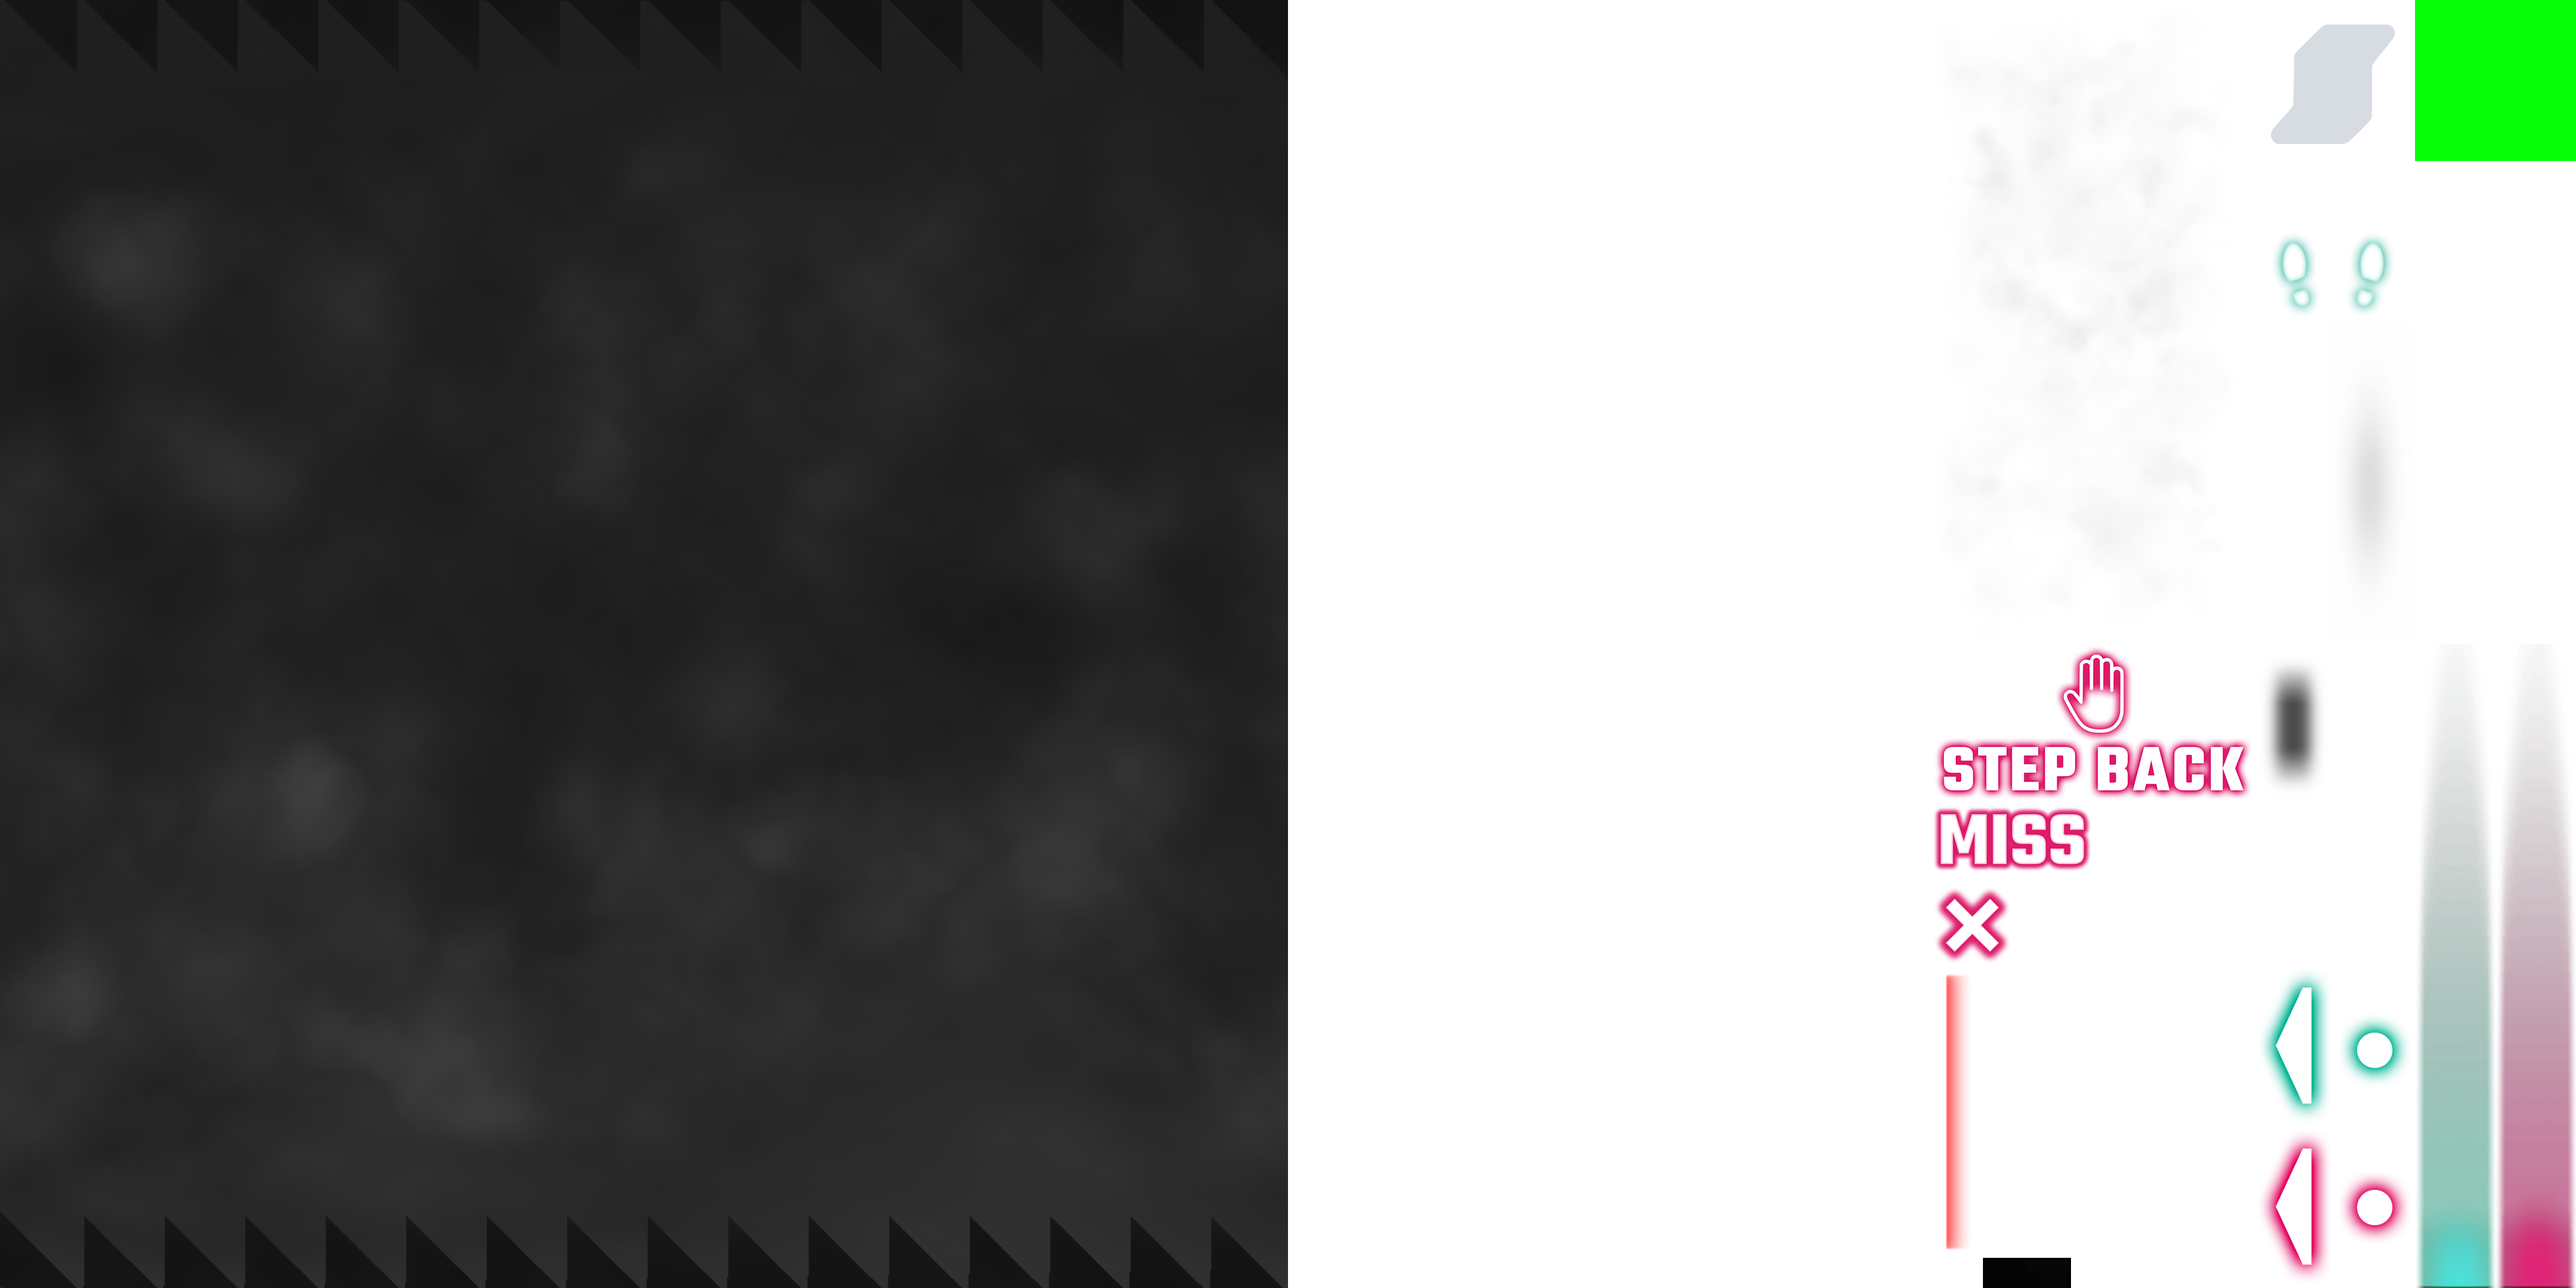
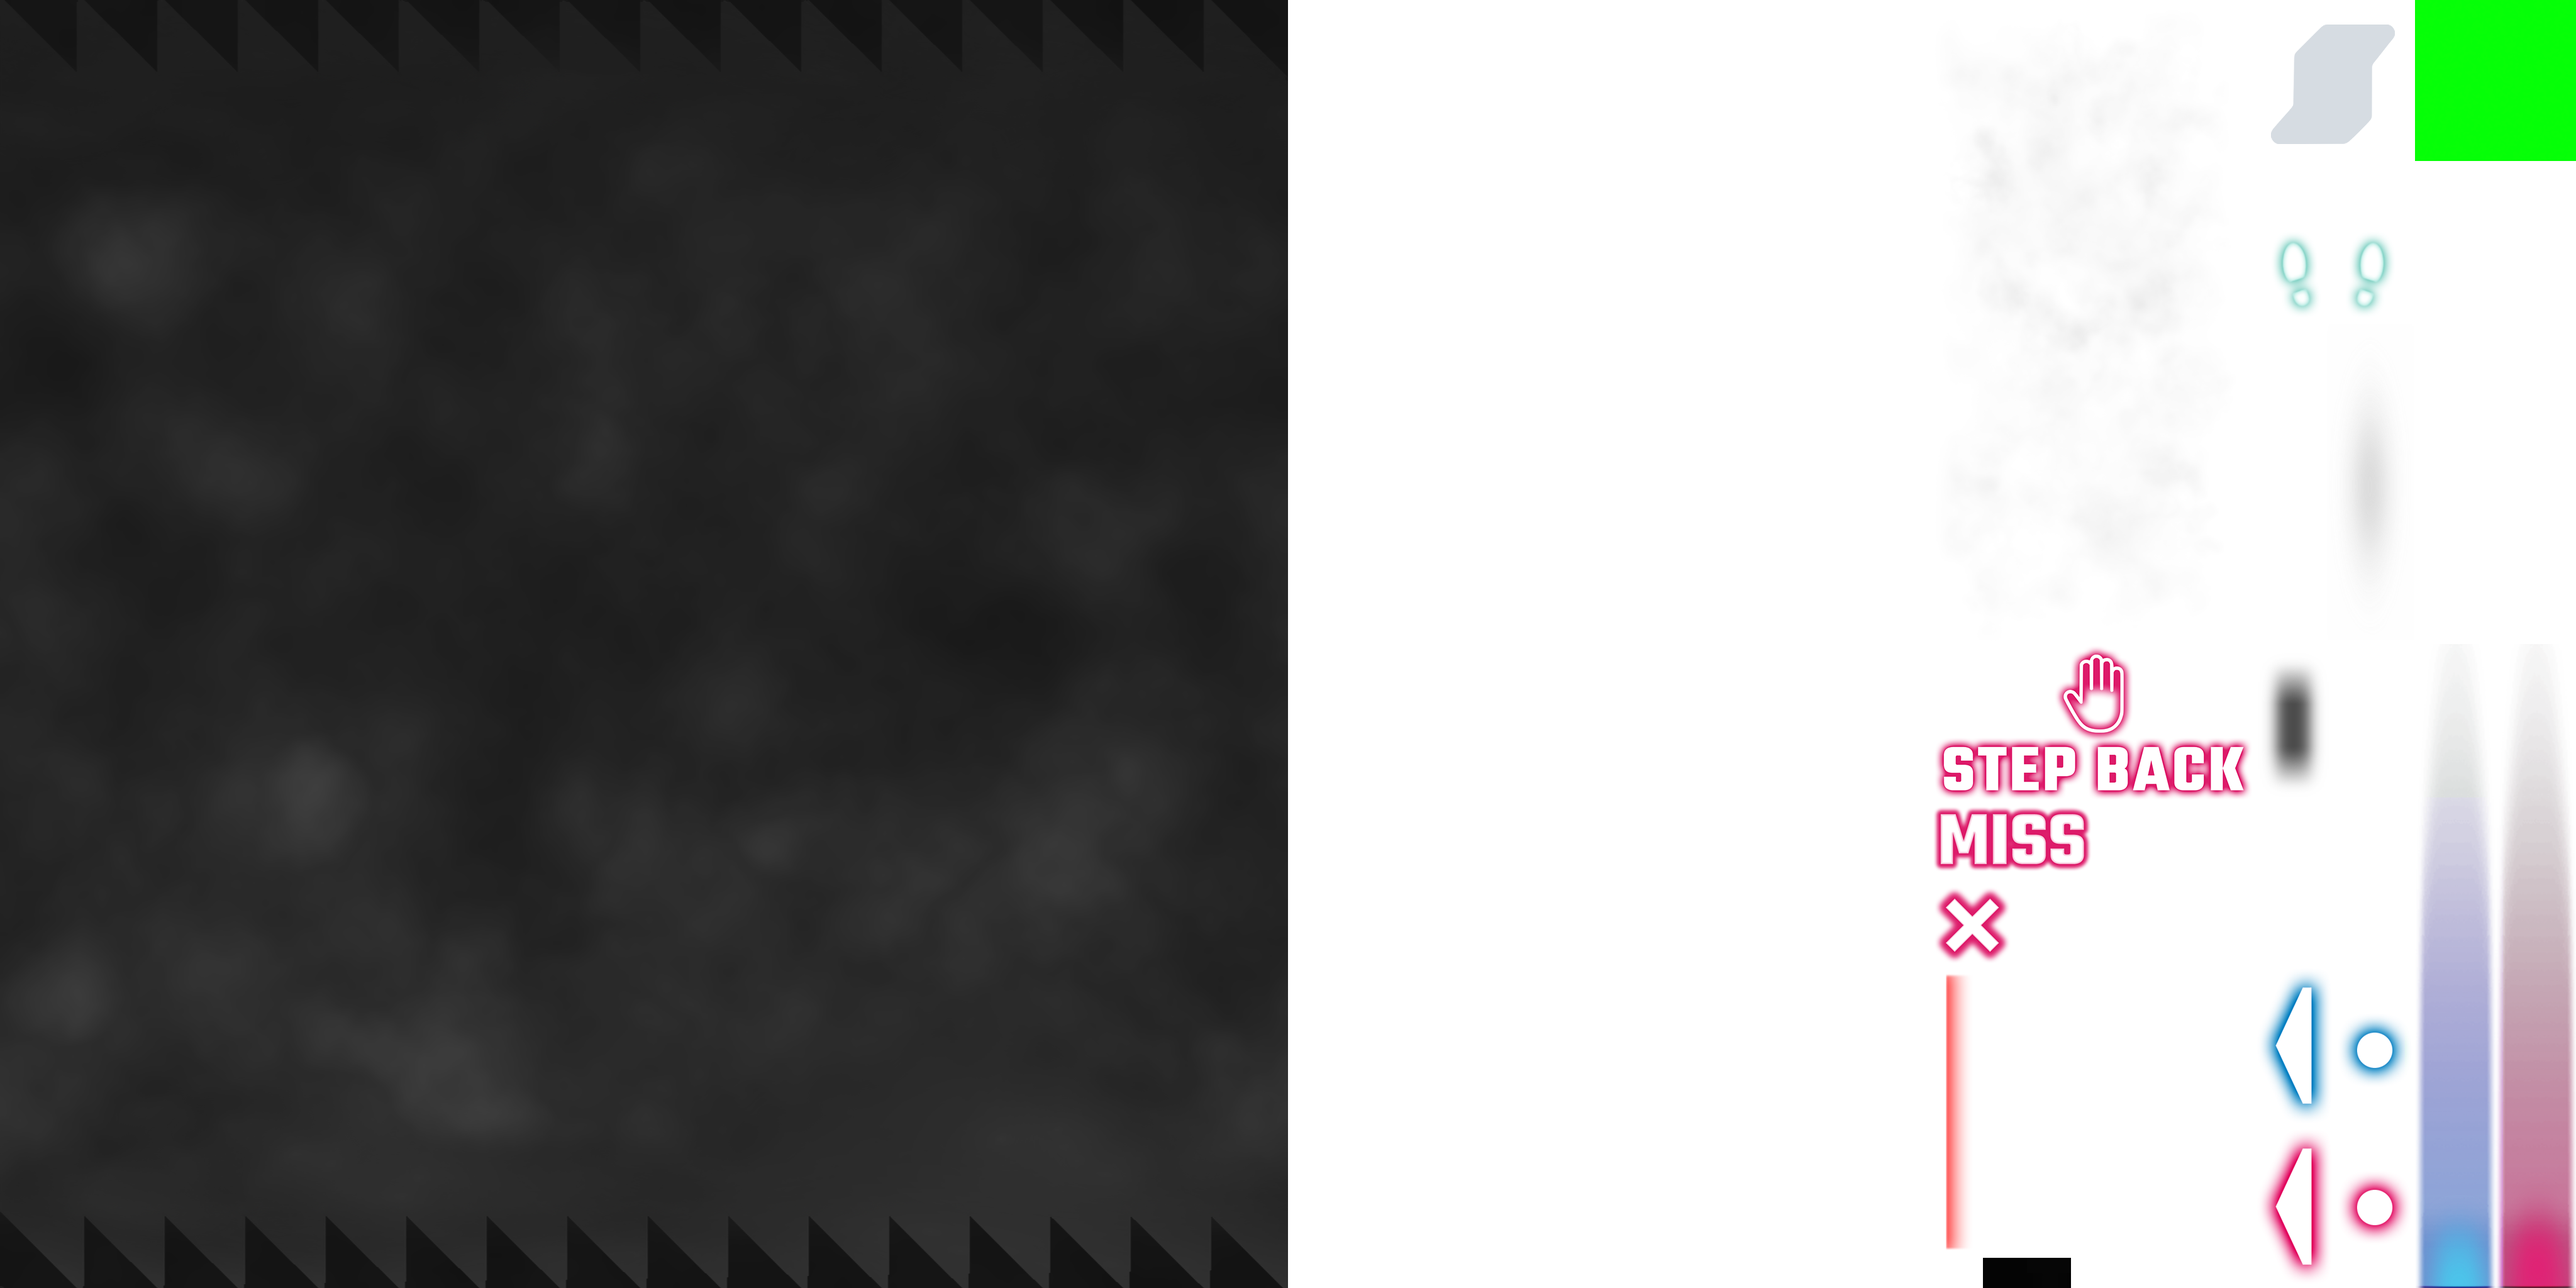
convert beats from green to blue for color blindness

Changed region(s): [[0.875, 0.7812, 0.9688, 1.0]]

diff --git a/src/constants/colors.js b/src/constants/colors.js
@@ -1,7 +1,7 @@
 module.exports = {
   OFF: '#111',
   RED: '#ff3a7b',
-  BLUE: '#08bfa2',
+  BLUE: '#08a2bf',
 
   UI_ACCENT: '#fff',
   UI_ACCENT2: '#f01978',
@@ -17,7 +17,7 @@ module.exports = {
   BG_BRIGHTRED: '#ff6bb0',
 
   NEON_OFF: '#000',
-  NEON_BLUE: '#008a70',
+  NEON_BLUE: '#00708a',
   NEON_BRIGHTBLUE: '#87c2ff',
   NEON_RED: '#f01978',
   NEON_BRIGHTRED: '#ff70b5',
@@ -27,7 +27,7 @@ module.exports = {
   TEXT_BOLD: '#888',
 
   BEAT_RED: '#660338',
-  BEAT_BLUE: '#036657',
+  BEAT_BLUE: '#034470',
 
   MINE_RED: '#1c060e',
   MINE_RED_EMISSION: '#2a0d1b',
